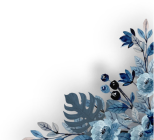
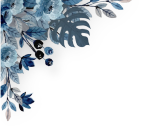
change event location design

diff --git a/src/components/layouts/EventLocation/index.tsx b/src/components/layouts/EventLocation/index.tsx
@@ -11,13 +11,58 @@ export default function EventLocation({ className }: EventLocationProps) {
   const [modal, setModal] = useState<boolean>(false);
   return (
     <div
-      className={`px-9 py-20 relative ${className} text-center w-full overflow-hidden`}
+      className={`px-9 pt-20 pb-28 relative ${className} text-center w-full overflow-hidden`}
     >
+      <motion.div
+        animate={{
+          x: [0, "5px", 0],
+          y: [0, "5px", 0],
+          skewX: [0, "-3deg", 0],
+        }}
+        transition={{
+          duration: 6,
+          repeat: Infinity,
+          repeatType: "reverse",
+          ease: "easeInOut",
+        }}
+        className={`absolute bottom-0 right-0 z-10`}
+      >
+        <Image
+          className={``}
+          alt=""
+          src={`/image/bnga-top-left.png`}
+          width={160}
+          height={104}
+        />
+      </motion.div>
+      <motion.div
+        animate={{
+          x: [0, "-5px", 0],
+          y: [0, "5px", 0],
+          skewX: [0, "3deg", 0],
+        }}
+        transition={{
+          duration: 6,
+          repeat: Infinity,
+          repeatType: "reverse",
+          ease: "easeInOut",
+        }}
+        className={`absolute bottom-0 left-0 z-10`}
+      >
+        <Image
+          className={``}
+          alt=""
+          src={`/image/bnga-top-left-2.png`}
+          width={160}
+          height={104}
+        />
+      </motion.div>
       <motion.div
         animate={{
           x: [0, "-5px", 0],
           y: [0, "-5px", 0],
-          skewX: [0, "3deg", 0],
+          // skewX: [0, "2deg", 0],
+          skewY: [0, "3deg", 0],
         }}
         transition={{
           duration: 6,
@@ -30,32 +75,9 @@ export default function EventLocation({ className }: EventLocationProps) {
         <Image
           className={``}
           alt=""
-          src={`/image/bnga-top-left.png`}
-          width={233}
-          height={152}
-        />
-      </motion.div>
-      <motion.div
-        animate={{
-          x: [0, "5px", 0],
-          y: [0, "5px", 0],
-          // skewX: [0, "2deg", 0],
-          skewY: [0, "-3deg", 0],
-        }}
-        transition={{
-          duration: 6,
-          repeat: Infinity,
-          repeatType: "reverse",
-          ease: "easeInOut",
-        }}
-        className={`absolute bottom-0 right-0 z-20`}
-      >
-        <Image
-          className={``}
-          alt=""
           src={`/image/bunga-bottom-right.png`}
-          width={233}
-          height={152}
+          width={280}
+          height={182}
         />
       </motion.div>
       <div className="bg-white bg-opacity-50 shadow-xl drop-shadow-xl rounded-lg py-12 px-4 w-full">
